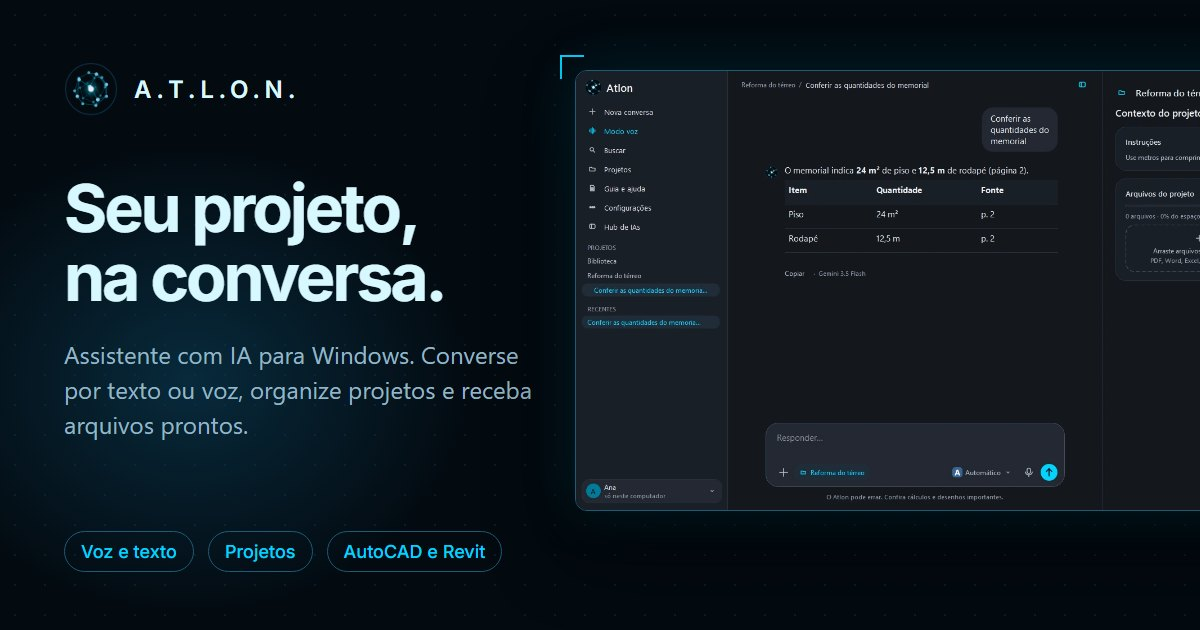
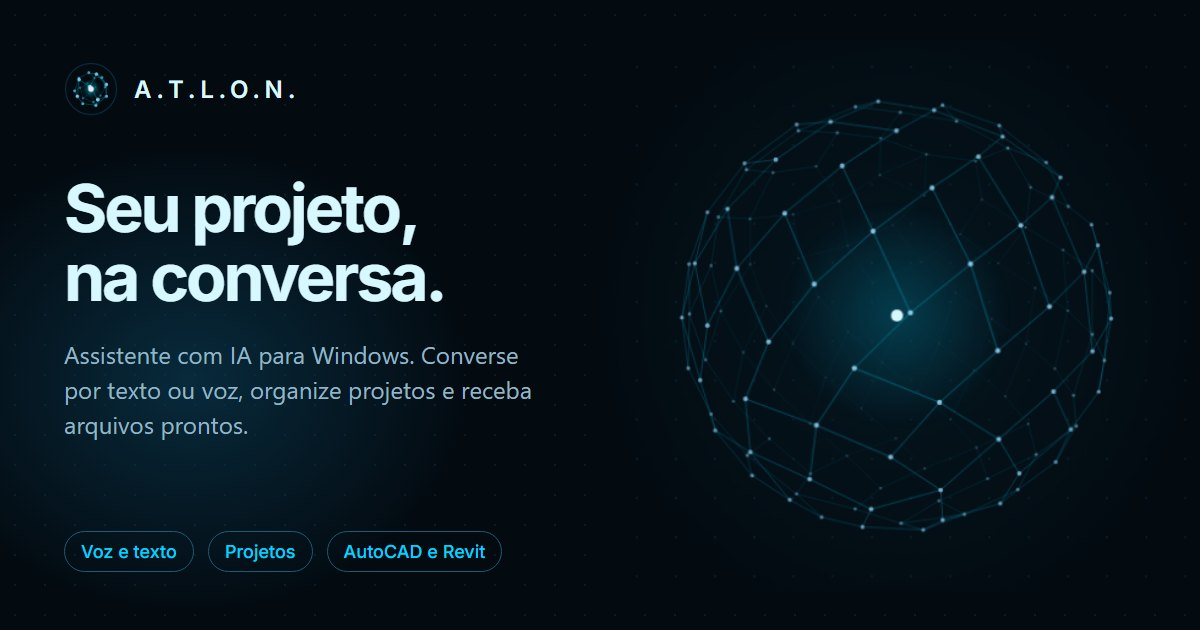
Topo com a esfera e o nome Atlon; prévia do WhatsApp com a esfera

diff --git a/index.html b/index.html
@@ -17,15 +17,19 @@
 <title>A.T.L.O.N. · Seu projeto, na conversa.</title>
 <link rel="preconnect" href="https://fonts.googleapis.com"><link rel="preconnect" href="https://fonts.gstatic.com" crossorigin>
 <link rel="stylesheet" href="https://fonts.googleapis.com/css2?family=Inter:wght@400;500;600;700&display=swap">
-<link rel="icon" href="atlon-logo.png"><link rel="stylesheet" href="style.css?v=mark-i-20"><script src="site.js?v=mark-i-6" defer></script>
+<link rel="icon" href="atlon-logo.png"><link rel="stylesheet" href="style.css?v=mark-i-22"><script src="site.js?v=mark-i-6" defer></script>
 </head>
 <body>
 <a class="skip" href="#inicio">Pular para o conteúdo</a>
 <header class="wrap top"><a class="brand" href="#inicio" aria-label="Atlon, início"><img src="atlon-logo.png" width="36" height="36" alt="">A.T.L.O.N.</a><nav aria-label="Navegação principal"><a href="#recursos">O que ele faz</a><a href="#videos">Vídeos</a><a href="#guia">Ajuda</a><a class="nav-download" href="#baixar">Baixar</a></nav></header>
 <main id="inicio">
-<section class="hero wrap" aria-labelledby="titulo">
-<div class="hero-copy"><p class="edition"><span aria-hidden="true">●</span> Grátis para Windows</p><h1 id="titulo">Seu projeto,<br>na conversa.</h1><p class="lead">Um assistente com IA no seu computador. Converse por texto ou voz, junte os arquivos de cada trabalho e receba planilhas, documentos e desenhos prontos.</p><div class="actions"><a class="button primary" href="#baixar">Baixar o Atlon</a><a class="text-link" href="#recursos">Ver o que ele faz →</a></div><p class="fine">Windows 10 ou 11 · Abre direto na conversa · Duas palmas abrem a voz</p></div>
-<div class="hero-visual"><div class="hero-orb" aria-hidden="true"><canvas id="sphere" width="600" height="540"></canvas></div><img class="hero-shot" src="chat-atlon.webp?v=1.9" width="1280" height="780" alt="Tela de conversa do Atlon: um projeto aberto, a resposta com uma tabela de quantidades e os arquivos do projeto ao lado."></div>
+<section class="hero hero-center wrap" aria-labelledby="titulo">
+<div class="orb-stage" aria-hidden="true"><canvas id="sphere" width="600" height="540"></canvas></div>
+<p class="wordmark">A T L O N</p>
+<h1 id="titulo">Seu projeto, na conversa.</h1>
+<p class="lead">Um assistente com IA no seu computador. Converse por texto ou voz e receba planilhas, documentos e desenhos prontos.</p>
+<div class="actions"><a class="button primary" href="#baixar">Baixar o Atlon</a><a class="text-link" href="#recursos">Ver o que ele faz →</a></div>
+<p class="fine"><span aria-hidden="true">●</span> Grátis para Windows 10 e 11</p>
 </section>
 <section class="release wrap" id="recursos" aria-labelledby="recursos-title">
   <div class="release-head"><h2 id="recursos-title">O que você pode fazer</h2></div>

diff --git a/style.css b/style.css
@@ -76,3 +76,22 @@ footer>span,footer>a:last-child{font-size:.82rem}
 @media(max-width:820px){.hero{grid-template-columns:1fr;min-height:0;gap:2.5rem}.hero-orb{width:200px;right:-20px;top:-80px}}
 @media(max-width:640px){.release-grid{grid-template-columns:1fr}.hero-orb{width:150px;right:-10px;top:-60px}}
 main{overflow-x:clip}
+.hero{grid-template-columns:minmax(0,1fr) minmax(0,1.1fr)}
+.frame-head,.frame-foot{font-family:var(--sans);font-size:.78rem;letter-spacing:.12em;font-weight:600;text-transform:uppercase}
+.frame-head span:last-child{font-size:.72rem}
+.nucleus{min-height:560px}
+@media(max-width:820px){.nucleus{min-height:380px}}
+.hero-center{display:flex;flex-direction:column;align-items:center;text-align:center;min-height:0;padding-block:1.5rem 5rem;gap:0}
+.hero-center .orb-stage{position:relative;width:min(560px,92vw);margin-bottom:-2.5rem}
+.hero-center .orb-stage::before{content:"";position:absolute;inset:8% 8%;background:radial-gradient(circle,#00d4ff30,transparent 62%);filter:blur(18px)}
+.hero-center #sphere{position:relative;display:block;width:100%;height:auto;min-height:0}
+.wordmark{position:relative;font-weight:700;font-size:clamp(2.6rem,7vw,5rem);letter-spacing:.42em;margin-right:-.42em;color:#eaffff;text-shadow:0 0 34px #00d4ff66;line-height:1}
+.hero-center h1{font-size:clamp(1.6rem,3.2vw,2.5rem);margin:1.4rem 0 1rem;letter-spacing:-.03em}
+.hero-center .lead{max-width:46ch;margin-inline:auto}
+.hero-center .actions{justify-content:center}
+.hero-center .fine span{color:#00ff88;margin-right:.4rem}
+.hero-center{padding-block:.5rem 4.5rem}
+.hero-center .orb-stage{width:min(440px,86vw);margin-bottom:-1.6rem}
+.wordmark{font-size:clamp(2.4rem,5.6vw,4.2rem);letter-spacing:.3em;margin-right:-.3em}
+.hero-center h1{margin:1.6rem 0 .8rem}
+@media(max-width:640px){.hero-center{padding-top:0}.wordmark{letter-spacing:.22em;margin-right:-.22em}}
